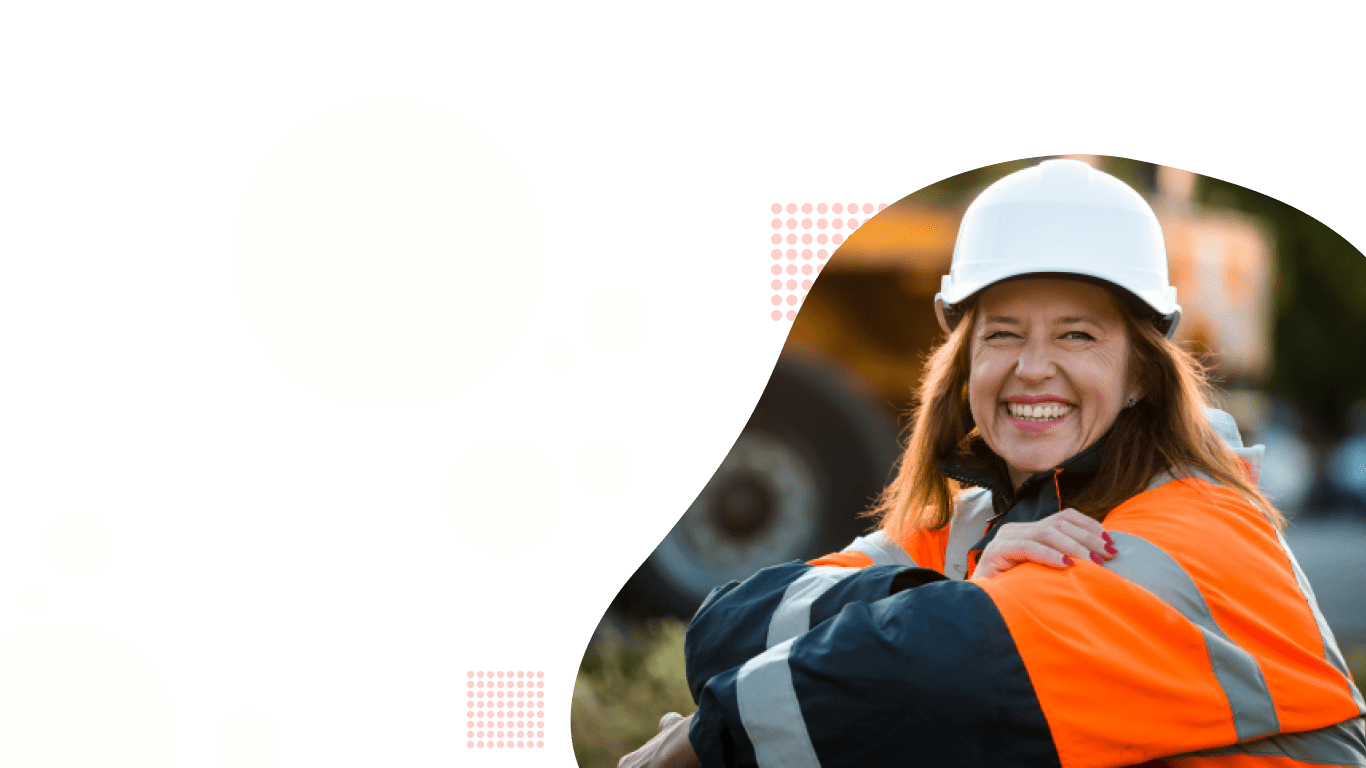
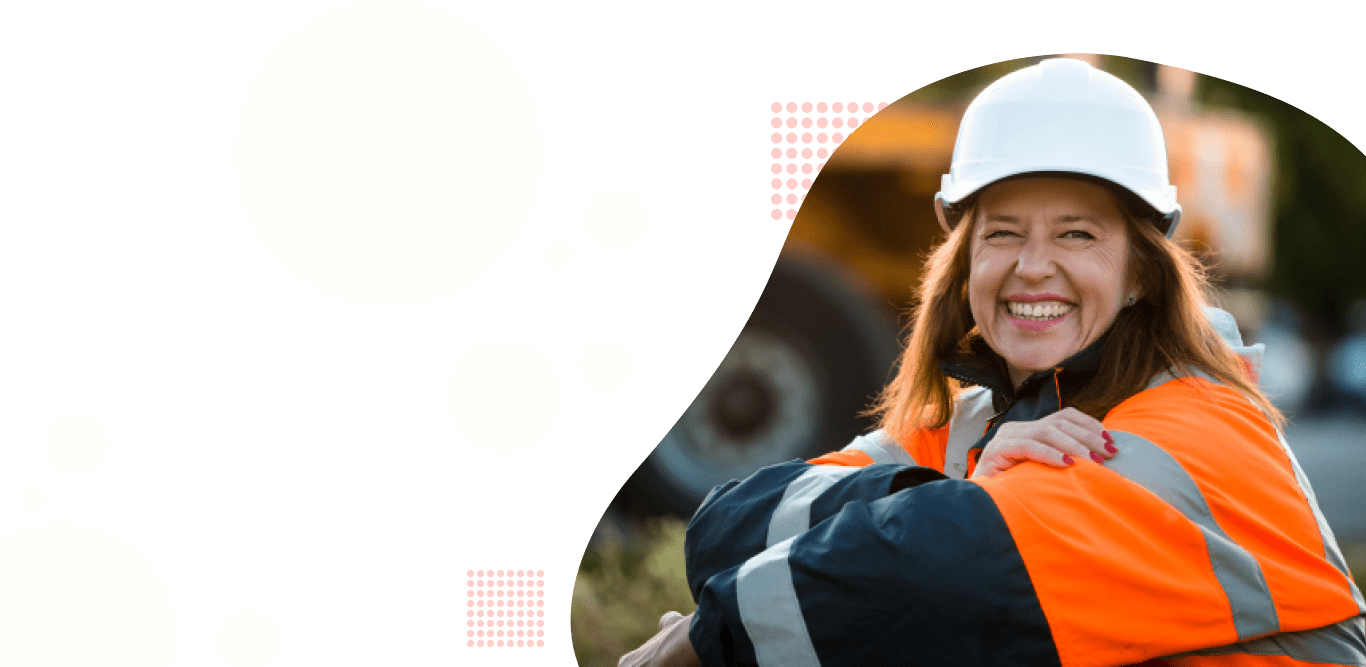
Update Home & Register Page

Changed region(s): [[0.3382, 0.06, 1.0, 1.0], [0.9531, 0.9895, 0.9839, 1.0]]

diff --git a/lib/web/home-desktop-web.dart b/lib/web/home-desktop-web.dart
@@ -105,10 +105,10 @@ class _HomeDesktopWebState extends State<HomeDesktopWeb> with SingleTickerProvid
                   width: double.infinity,
                   height: MediaQuery.of(context).size.height,
                   decoration: BoxDecoration(
-                    image: DecorationImage(image: AssetImage('assets/web/desktop-back.png'),alignment: Alignment.bottomRight, fit: BoxFit.cover)
+                    image: DecorationImage(image: AssetImage('assets/web/desktop-back.png'),alignment: Alignment.bottomRight, fit: BoxFit.fitHeight)
                   ),
                   child: Padding(
-                    padding: EdgeInsets.fromLTRB(width*0.28,width*0.15,width*0.2,0),
+                    padding: EdgeInsets.fromLTRB(width*0.28,width*0.10,width*0.2,0),
                     child: Column(
                       crossAxisAlignment: CrossAxisAlignment.start,
                       children: [
@@ -194,6 +194,24 @@ class _HomeDesktopWebState extends State<HomeDesktopWeb> with SingleTickerProvid
                           ],
                         ),
                         SizedBox(height: width*0.3,),
+
+                        ///button
+                        SizedBox(
+                          width: width*0.65,
+                          child: Button(
+                            color: Colors.red,
+                            text: 'Log på',
+                            onclick: (){
+                              Navigator.push(
+                                context,
+                                CupertinoPageRoute(builder: (context) => HomeApp()),
+                              );
+                            },
+                            padding: width*0.04,
+                          ),
+                        ),
+
+                        SizedBox(height: width*0.05,),
 
                         ///button
                         SizedBox(

diff --git a/lib/web/be-a-recruit/register.dart b/lib/web/be-a-recruit/register.dart
@@ -30,6 +30,7 @@ class _RegisterWebWorkerState extends State<RegisterWebWorker> {
   @override
   Widget build(BuildContext context) {
     double width = MediaQuery.of(context).size.width;
+    double height = MediaQuery.of(context).size.height;
 
     return Padding(
       padding: EdgeInsets.fromLTRB(width*0.05,width*0.04,width*0.1,0),
@@ -39,7 +40,7 @@ class _RegisterWebWorkerState extends State<RegisterWebWorker> {
         children: <Widget>[
           SizedBox(height: ScreenUtil().setHeight(30),),
           CustomText(text: 'Tilmeld dig nu',size: ScreenUtil().setSp(100),align: TextAlign.start,color: Color(0xff52575D),),
-          SizedBox(height: width*0.03,),
+          SizedBox(height: height*0.03,),
           Expanded(
             child: Scrollbar(
               child: ListView(

diff --git a/lib/web/book-a-recruit/register.dart b/lib/web/book-a-recruit/register.dart
@@ -97,11 +97,11 @@ class _RegisterWebCompanyState extends State<RegisterWebCompany> {
   @override
   Widget build(BuildContext context) {
     double width = MediaQuery.of(context).size.width;
+    double height = MediaQuery.of(context).size.height;
 
     return SingleChildScrollView(
-      physics: BouncingScrollPhysics(),
       child: Padding(
-        padding: EdgeInsets.fromLTRB(width*0.05,width*0.075,width*0.1,width*0.075),
+        padding: EdgeInsets.fromLTRB(width*0.05,height*0.12,width*0.1,height*0.010),
         child: Column(
           crossAxisAlignment: CrossAxisAlignment.start,
           mainAxisAlignment: MainAxisAlignment.center,
